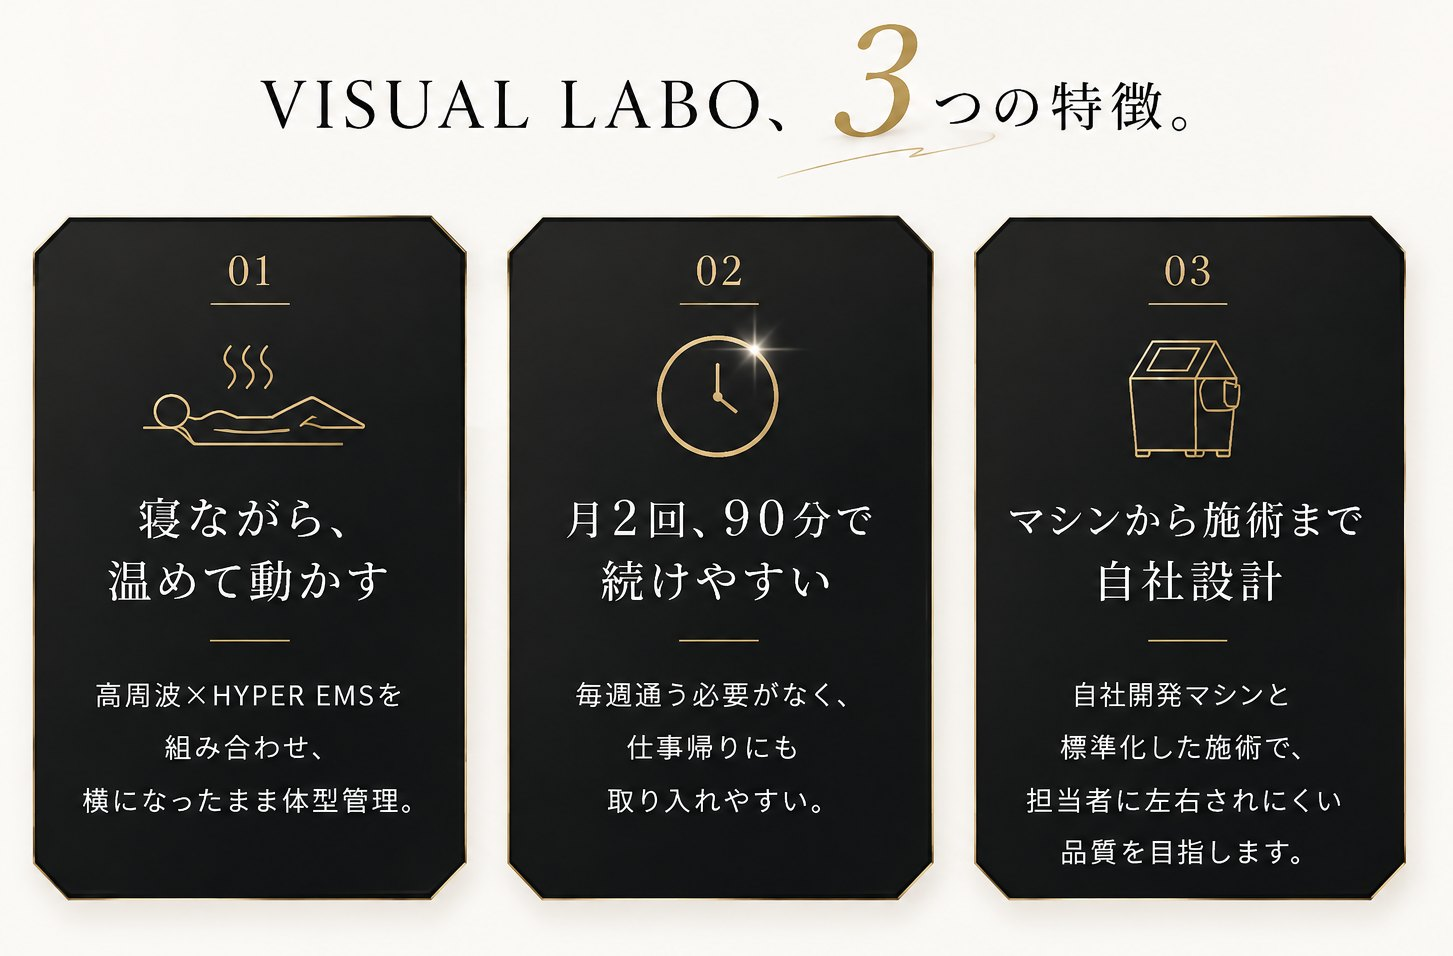
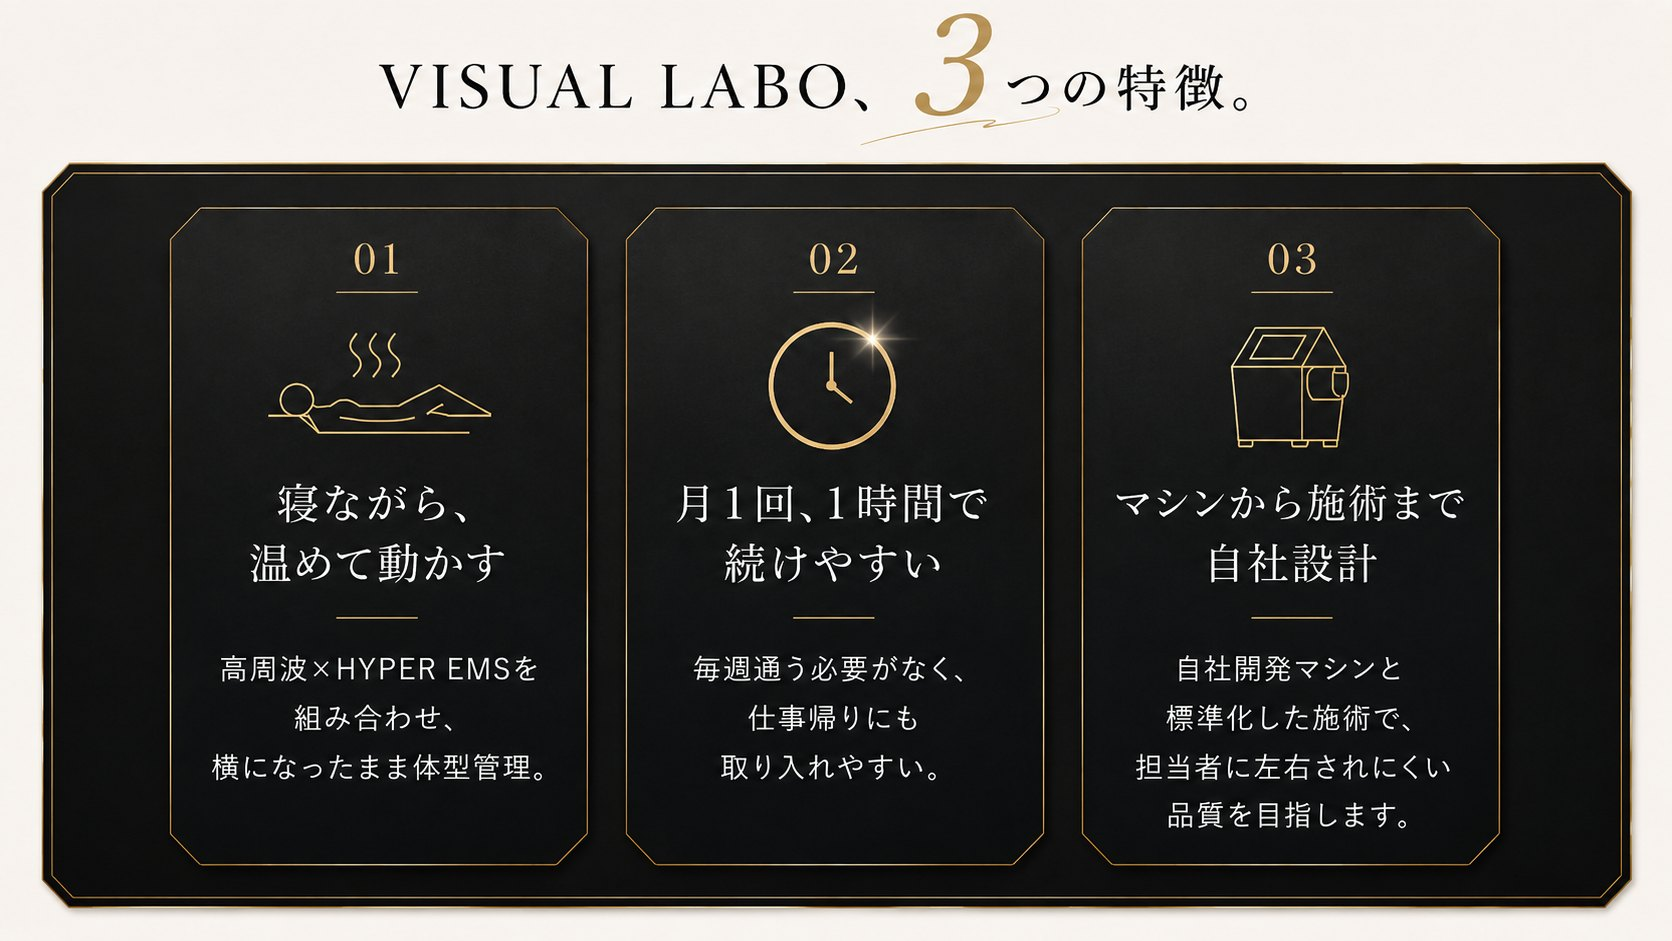
update: 2026-08-09 08:35

Changed region(s): [[0.0, 0.0, 0.9911, 0.9862]]

diff --git a/price.html b/price.html
@@ -70,7 +70,7 @@
     <a class="rv" href="https://visuallabo-line.visuallabo.workers.dev/auth/line?" target="_blank" rel="noopener" data-cta="price_trial_banner" style="display:block;max-width:920px;margin:0 auto;border-radius:18px;overflow:hidden;box-shadow:0 18px 44px -22px rgba(17,17,17,.25)">
       <picture>
         <source media="(min-width:768px)" srcset="images/trial-card-pc.jpg">
-        <img src="images/trial-card.jpg" alt="TRIAL｜初回体験｜ご入会前に、高周波施術を体験いただけます。初回は、お腹まわりの体験から。90分 BODY MAINTENANCEコース（機械60分＋EMS30分・温活タイム60分＋筋トレタイム30分）｜高周波で、深部からじんわり温める・HYPER EMSで、引き締めにアプローチ・寝ているだけ・手ぶらでOK｜初回体験 通常価格¥14,800→¥4,800（税込）｜初回体験特典：体験当日のご入会で、入会金¥16,500が¥0（3ヶ月継続契約で入会金無料）｜※完全個室で受けたい方には VIP体験 120分 ¥19,800 もございます（VIP空き枠のみ）" loading="eager">
+        <img src="images/trial-card.jpg" alt="TRIAL｜初回体験｜ご入会前に、高周波施術を体験いただけます。初回は、お腹まわりの体験から。90分 お腹痩せ体験（機械60分＋EMS30分・温活タイム60分＋筋トレタイム30分）通常価格¥14,800→¥4,800（税込）｜高周波で、深部からじんわり温める・HYPER EMSで、引き締めにアプローチ・寝ているだけ・手ぶらでOK｜体験当日のご入会特典：入会金¥16,500→¥0（3ヶ月継続契約で入会金無料）｜120分 VIPルームでの特別体験 ¥19,800（DOMEサウナオプション無料・初回から施術をオリジナルカスタマイズ可能・VIP空き枠のみ）｜WEB予約は24時間受付中" loading="eager">
       </picture>
     </a>
     <p class="rv" style="margin-top:18px;text-align:center"><a href="flow.html" style="font-family:'Futura','Century Gothic','Outfit','Noto Sans JP',sans-serif;font-size:13px;letter-spacing:.06em;color:var(--ink-soft);border-bottom:1px solid var(--line);padding-bottom:3px">体験の流れについて詳しく見る →</a></p>

diff --git a/index.html b/index.html
@@ -404,7 +404,7 @@ var t0=Date.now();window.addEventListener('load',function(){setTimeout(hide,Math
       <p class="lead-s">月1回・60分・<b style="color:var(--gold-d);font-size:1.2em;font-weight:700">¥5,800</b>から。<br>高周波×HYPER EMSの本格ケアを、月1回1時間だけ。<br>がんばりすぎずに続けられる、体型管理習慣です。</p>
     </div>
     <figure class="figcard rv" style="max-width:1000px;box-shadow:none;margin-top:clamp(30px,5vw,48px)">
-      <img loading="lazy" src="images/tokucho3.jpg" alt="VISUAL LABO、3つの特徴｜01 寝ながら、温めて動かす（高周波×HYPER EMSを組み合わせ、横になったまま体型管理）｜02 月2回、90分で続けやすい（毎週通う必要がなく、仕事帰りにも取り入れやすい）｜03 マシンから施術まで自社設計（自社開発マシンと標準化した施術で、担当者に左右されにくい品質を目指します）">
+      <img loading="lazy" src="images/tokucho3.jpg" alt="VISUAL LABO、3つの特徴｜01 寝ながら、温めて動かす（高周波×HYPER EMSを組み合わせ、横になったまま体型管理）｜02 月1回、1時間で続けやすい（毎週通う必要がなく、仕事帰りにも取り入れやすい）｜03 マシンから施術まで自社設計（自社開発マシンと標準化した施術で、担当者に左右されにくい品質を目指します）">
     </figure>
     <p class="note center rv" style="margin-top:14px">※効果・感じ方には個人差があります。</p>
   </div>
